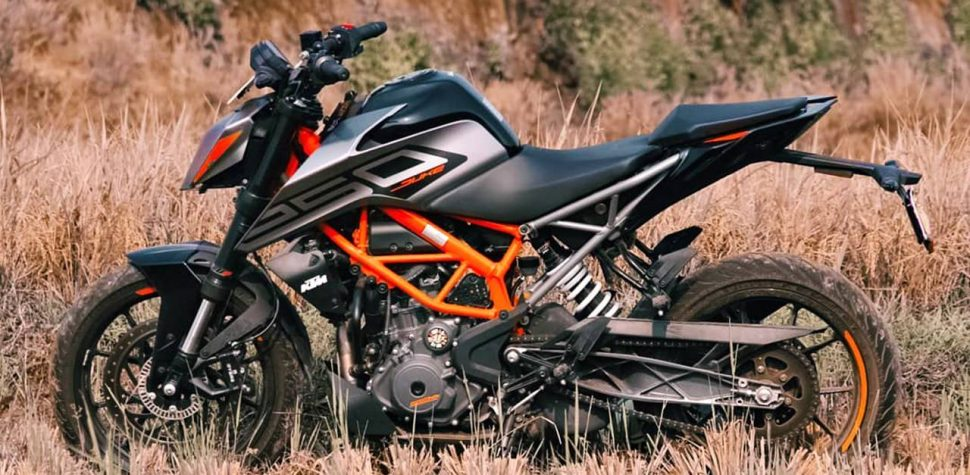
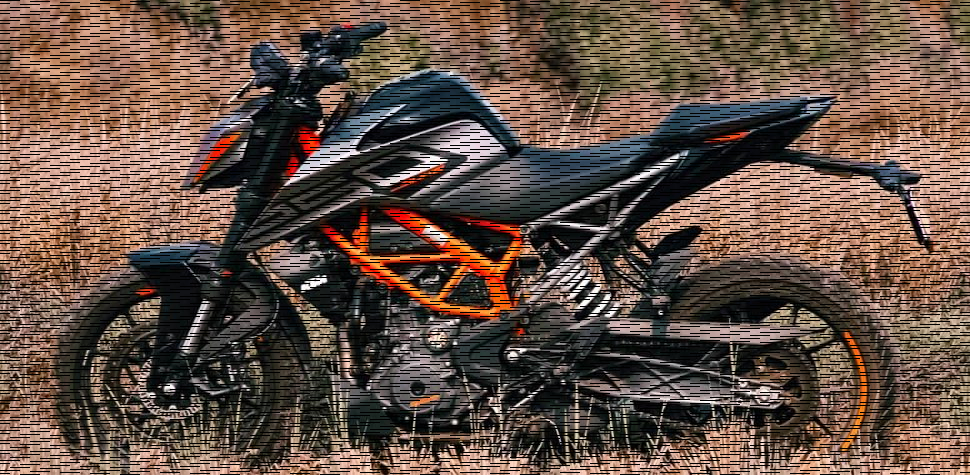
more progress

Changed region(s): [[0.0, 0.0, 1.0, 1.0], [0.6804, 0.3242, 0.7113, 0.3537]]

diff --git a/chapter2/question-2.7.py b/chapter2/question-2.7.py
@@ -2,6 +2,7 @@ from PIL import Image
 import random
 import math
 import os
+import time
 
 class Im():
     """
@@ -17,28 +18,19 @@ class Im():
         self.im.save(output_file)
         os.system(f"imdisplay {output_file}")
 
-    def fillRandomPixels(self, percentage):
-        p =  int(self.number_of_pixels * (percentage / 100))
-        for i in range(0, self.number_of_pixels):
-            n = math.floor(random.random() * self.number_of_pixels)
-            if i == p:
-                pass
+    def fillRandomPixels(self, percentage, color):
+        i = 0
+        for y in range(0, self.im.size[1]):
+            for x in range(0, self.im.size[0]):
+                wrap = i % 100
+                if wrap < percentage:
+                    self.pixels[x, y] = color 
+                i += 1
 
 
 im = Im("bike.jpg")
-# percentage = 90
-# print(im.getPixelPercentage(percentage))
-# rand_pixels = generateRandom(im.getPixelPercentage(percentage), im.number_of_pixels)
-# print(random.random())
-
-# def callback(x, y, i, pixel_number):
-#     if i in rand_pixels:
-#         im.pixels[x, y] = (0, 0, 0, 255)
-#         print("yep")
-#     else:
-#         print("nope")
-
-# im.loop(callback)
+print(im.im.size[0], im.im.size[1])
+im.fillRandomPixels(20, (0, 0, 0, 255))
 
 im.displayImage("out.png")
 
